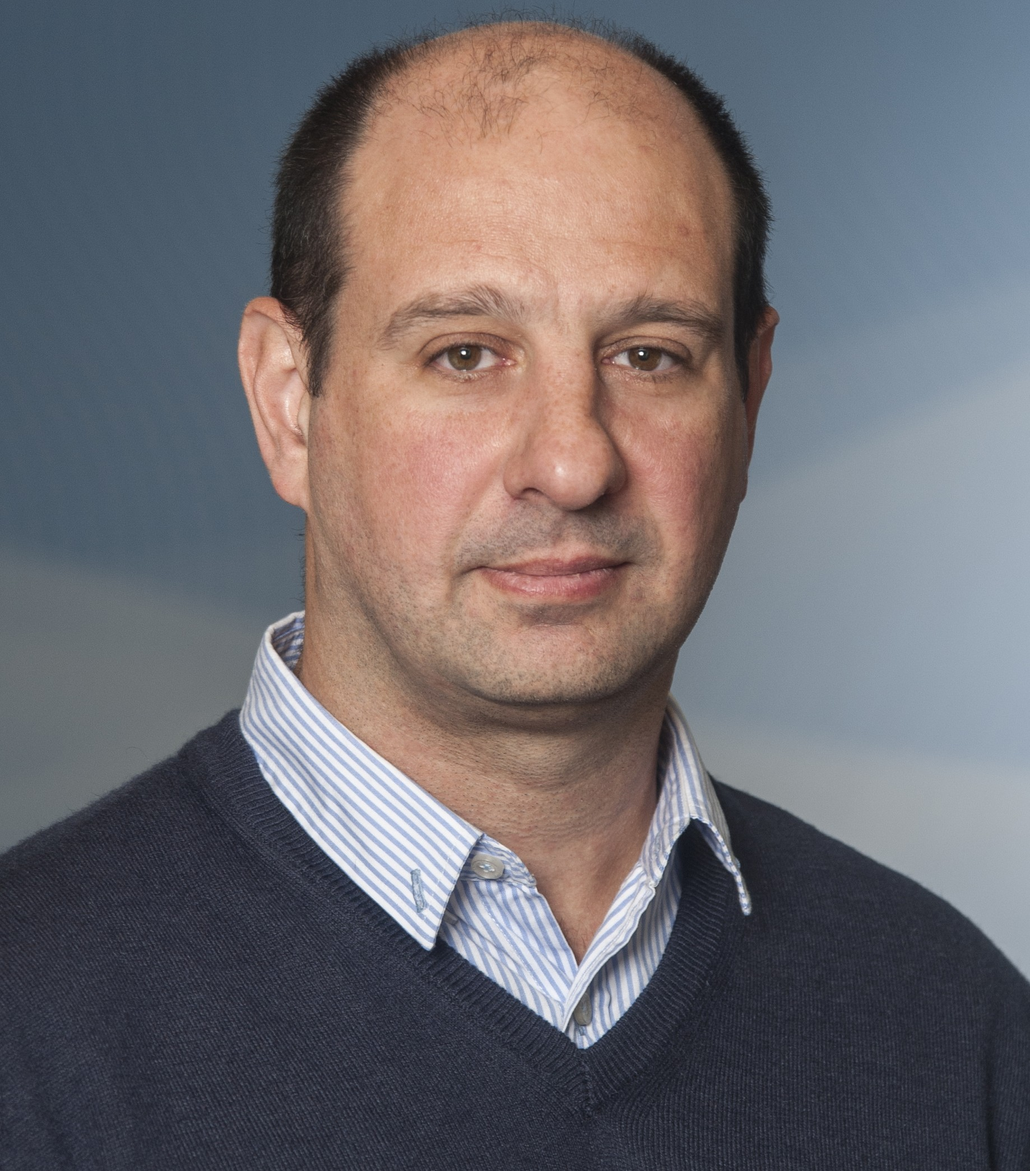
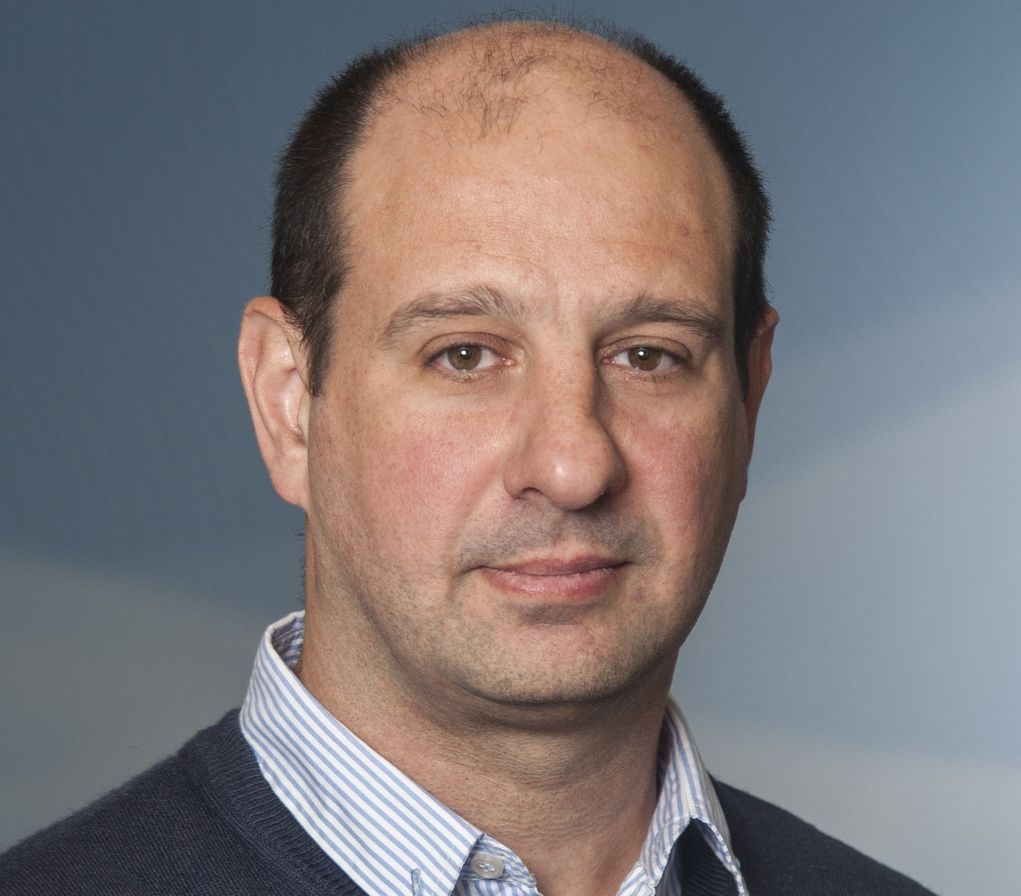
feat: update tsc and aac profile

diff --git a/governance.html b/governance.html
@@ -486,20 +486,20 @@
 
         <div class="member-card">
           <div class="member-avatar">
-            <div class="initials">OS</div>
+            <img src="./src/images/aac/OliverSimon.jpg" alt="Olivier Simon">
           </div>
           <div class="name">Olivier Simon</div>
           <div class="org">Orange</div>
-          <span class="role-tag">Member</span>
+          <span class="role-tag">VP Smart Networks and Data</span>
         </div>
 
         <div class="member-card">
           <div class="member-avatar">
-            <div class="initials">WW</div>
+            <img src="./src/images/aac/WasitWattanasap.jpg" alt="Wasit Wattanasap">
           </div>
           <div class="name">Wasit Wattanasap</div>
           <div class="org">AIS</div>
-          <span class="role-tag">Member</span>
+          <span class="role-tag">Head of Nationwide Operations and Support Business Unit</span>
         </div>
 
         <div class="member-card">
@@ -522,7 +522,7 @@
 
         <div class="member-card">
           <div class="member-avatar">
-            <div class="initials">SZ</div>
+            <img src="./src/images/aac/ShaoweiZhao.png" alt="Shaowei Zhao">
           </div>
           <div class="name">Shaowei Zhao</div>
           <div class="org">ZTE</div>
@@ -535,7 +535,7 @@
           </div>
           <div class="name">Chengkun Liu</div>
           <div class="org">AsiaInfo</div>
-          <span class="role-tag">Member</span>
+          <span class="role-tag">Vice President of AsiaInfo Technologies</span>
         </div>
       </div>
     </div>
@@ -588,11 +588,11 @@
 
         <div class="member-card">
           <div class="member-avatar">
-            <div class="initials">BT</div>
+            <img src="./src/images/tsc/BoonchoungTansuthepverawongse.png" alt="Boonchoung Tansuthepverawongse">
           </div>
           <div class="name">Boonchoung Tansuthepverawongse</div>
           <div class="org">AIS</div>
-          <span class="role-tag">Voting Member</span>
+          <span class="role-tag">Head of Network Data and OSS Platform</span>
         </div>
 
         <div class="member-card">
@@ -615,7 +615,7 @@
 
         <div class="member-card">
           <div class="member-avatar">
-            <div class="initials">XS</div>
+            <img src="./src/images/tsc/XiaobinShi.png" alt="Xiaobin Shi">
           </div>
           <div class="name">Xiaobin Shi</div>
           <div class="org">ZTE</div>
@@ -624,11 +624,11 @@
 
         <div class="member-card">
           <div class="member-avatar">
-            <div class="initials">DD</div>
+            <img src="./src/images/aac/DajiangDu.jpeg" alt="Dajiang Du">
           </div>
           <div class="name">Dajiang Du</div>
           <div class="org">AsiaInfo</div>
-          <span class="role-tag">Voting Member</span>
+          <span class="role-tag">Senior Expert, ANC BU</span>
         </div>
       </div>
     </div>
